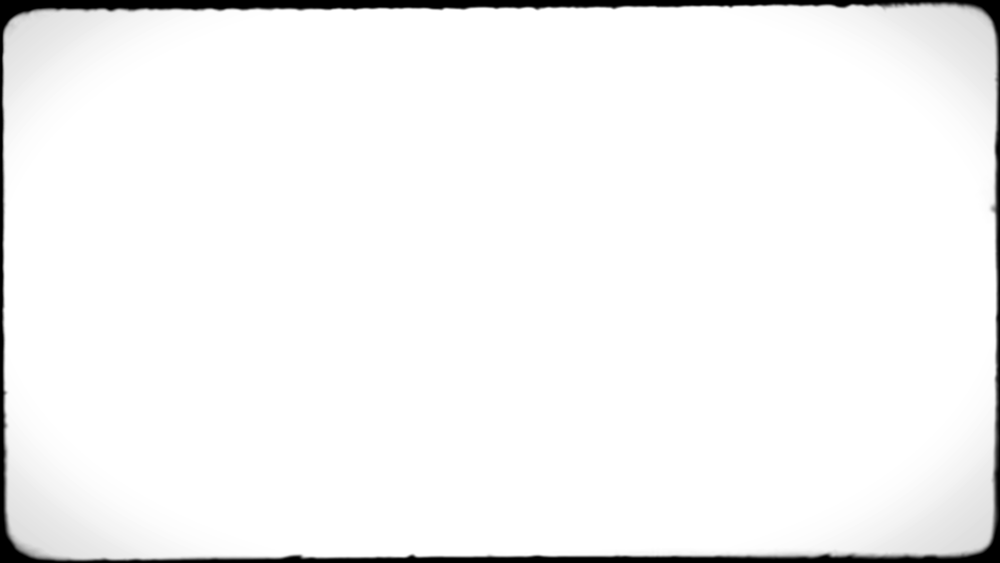
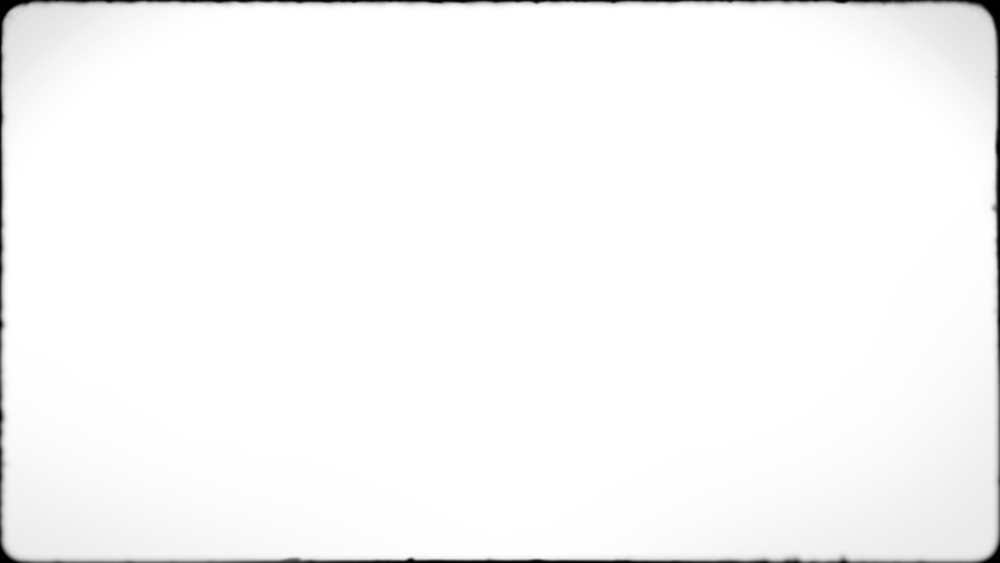
videos have a fuzzy edge now

diff --git a/src/components/global.scss b/src/components/global.scss
@@ -51,7 +51,7 @@ img{
     }
 }
 
-$dropShadow: 1px 1px 15px rgba(0,0,0,0.25);
+$dropShadow: 1px 1px 5px rgba(0,0,0,0.35);
 
 .drop-shadow{
   box-shadow: $dropShadow;
@@ -59,16 +59,23 @@ $dropShadow: 1px 1px 15px rgba(0,0,0,0.25);
 
 .round-corners{
   border-radius: 3px;
+  mask-image: url('../img/paper-smooth_mask.png');
+  mask-size: 100% 100%;
 }
 
 .scrim{
   position: absolute;
-  width: 100%;
-  height: 100%;
-  top: 0;
-  left: 0;
-  background: rgba(0,0,0, 1);
+  bottom: -10px;
+  right: -10px;
+  top: -10px;
+  left: -10px;
+  // background: #000;
+  background-image: url('../img/scrim.png');
+  background-size: 100% 100%;
   // @include whiteNoise(0.05);
+  // mask-image: url('../img/paper_mask.png');
+  // mask-size: 100% 100%;
+  // filter: drop-shadow($dropShadow);
 }
 
 .visuallyhidden { 
@@ -212,6 +219,10 @@ html, body {
     left: 0;
   }
 
+  &__normalScroll{
+    // filter: drop-shadow();
+  }
+
   &__background{
     position: absolute;
     width: 100%;
@@ -227,7 +238,7 @@ html, body {
   @supports ((perspective: 1px) and (not (-webkit-overflow-scrolling: touch))) {
 
     .ScrollSections {
-      $perspective: 2;
+      $perspective: 4;
       @mixin parallax($factor) {
         $scalefactor: 1 + ($factor * -1) / $perspective;
         transform: 
@@ -328,25 +339,47 @@ html, body {
     border-radius: 1% / calc(1% * (1280 / 720));
 
     &__ytEmbed{
-    position: absolute;
-    left: -2px;
-    width: calc(100% + 4px) !important;
-   }
+      position: absolute;
+      left: -2px;
+      width: calc(100% + 4px) !important;
+     }
   }
 
   &--fullscreen{
+    // margin: auto;
+    // width:100%;
+    // height: 100%;
+    // left:0;
+    // top:0;
+    // max-width: unset;
+
+    // .Video__wrapper{
+    //   padding:0;
+    //   height: 100%;
+    //   border-radius: 0;
+    // }
+
     margin: auto;
-    // width: calc(100% - 7vh);
-    width:100%;
-    height: 100%;
-    left:0;
-    top:0;
-    max-width: unset;
+    width: calc(100% - 7vh);
+
+    // .Video__wrapper{
+    //   mask-image: url('../img/video_mask.png');
+    //   mask-size: 100% 100%;
+    // }
 
     .Video__wrapper{
-      padding:0;
-      height: 100%;
-      border-radius: 0;
+      &:after{
+        content:"";
+        display: block;
+        position: absolute;
+        top:0;
+        left:0;
+        width: 100%;
+        height: 100%;
+        background-image: url('../img/video_edge.png');
+        background-size: 100% 100%;
+        pointer-events: none;
+      }
     }
   }
 }

diff --git a/src/templates/cities/paris.js b/src/templates/cities/paris.js
@@ -16,8 +16,12 @@ const Parallax = ({offset, speed = 'slow', ...rest}) => {
   const rootEl = (speed === 'slow') ? context.slow : context.fast;
 
   const factor = (speed === 'slow') ? -1 : 1;
-  const perspective = 2;
+  const perspective = 4;
   const scalefactor = 1 + (factor * -1) / perspective;
+
+  const magicOffsetNumber = (speed === 'slow') ? 
+  // -.1645 : .505; //perspective 2
+  -0.096 : 0.171; //perspective 4
 
   const output = <div className="ScrollSection" css={css(`
     position: absolute;
@@ -28,7 +32,7 @@ const Parallax = ({offset, speed = 'slow', ...rest}) => {
 
     @media screen and (min-width: 40em) {
       @supports ((perspective: 1px) and (not (-webkit-overflow-scrolling: touch))) {
-        top: calc((100vh - 40px) * (${offset} / ${scalefactor} + ${(1 - scalefactor)/4}));
+        top: calc((100vh - 40px) * (${offset} / ${scalefactor} + ${magicOffsetNumber}));
       }
     }
   `)} {...rest} />
